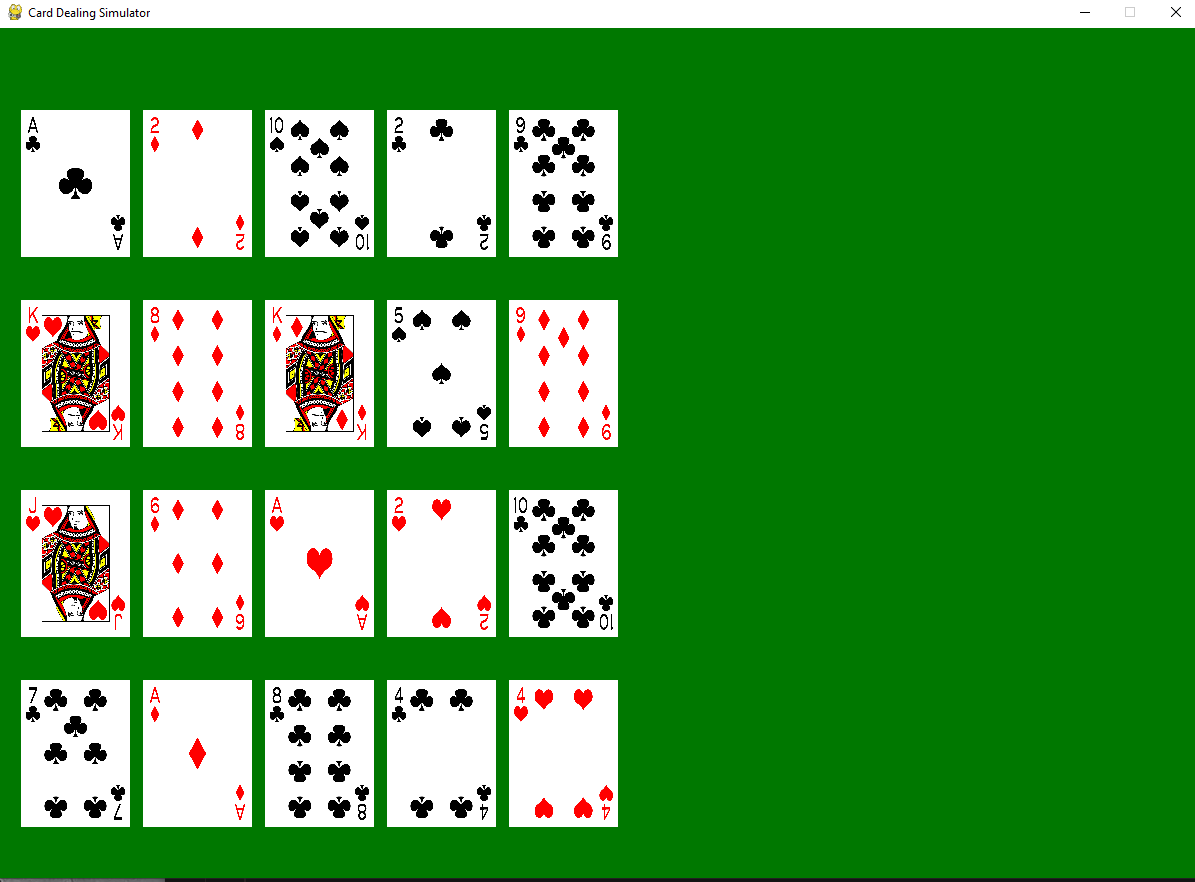
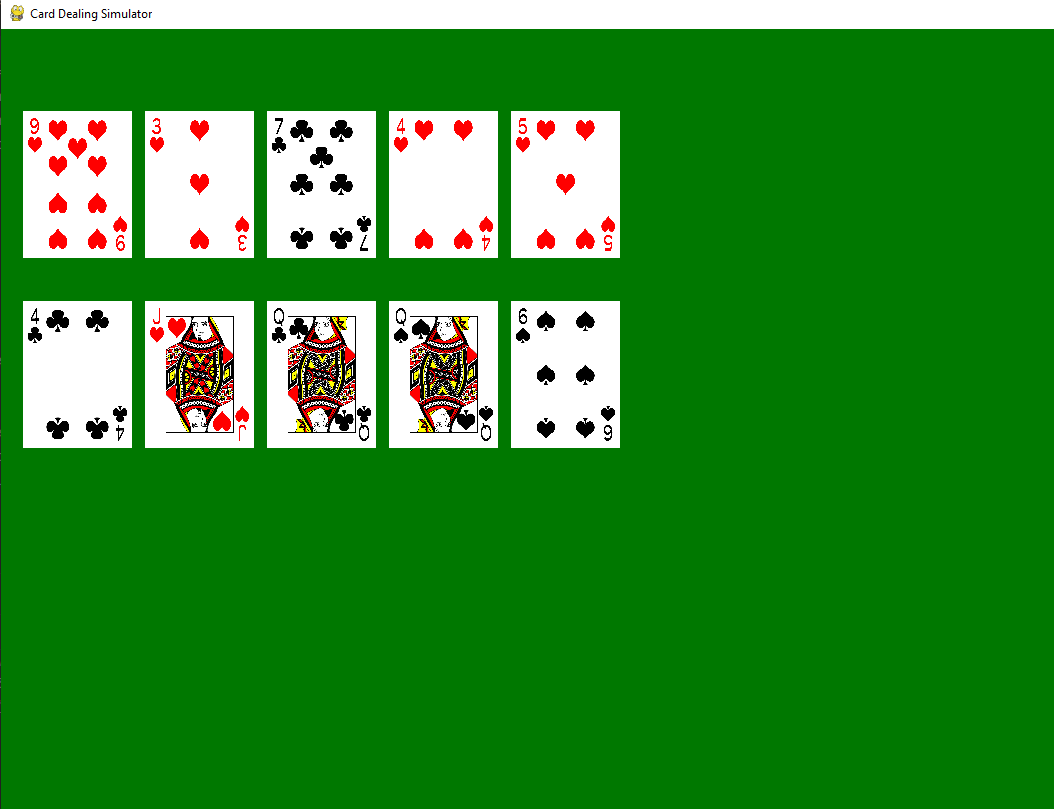
started implementing main menu, can click to go to game.

diff --git a/main.py b/main.py
@@ -22,7 +22,7 @@ for suit in suits:
 deck = [(suit, rank) for suit in suits for rank in ranks]
 random.shuffle(deck)
 
-num_players = 4
+num_players = 2
 cards_per_player = 5
 players = {}
 
@@ -37,21 +37,39 @@ screen = pygame.display.set_mode((screen_width, screen_height))
 pygame.display.set_caption("Card Dealing Simulator")
 
 #Button Creation
-startButton = Button((0,255,0), 400,150,200,80,"Start")
-howToButton = Button((0,0,255), 400,300,200,80,"How To Play")
-quitButton = Button((255,0,0), 400,450,200,80,"Quit")
+start_button = Button((0,255,0), 400,150,200,80,"Start")
+how_to_button = Button((0,0,255), 400,300,200,80,"How To Play")
+quit_button = Button((255,0,0), 400,450,200,80,"Quit")
+back_button = Button((200, 200, 200), 20, 20, 150, 60, "Back")
 
 running = True
 while running:
     for event in pygame.event.get():
+
+        # Check if user wants to quit
         if event.type == pygame.QUIT:
             running = False
 
+        #Logic for clicking menu buttons
+        # TODO: Add game, how_to
+        if event.type == pygame.MOUSEBUTTONDOWN:
+            pos = pygame.mouse.get_pos()
+
+            if current_state == 'menu':
+                if start_button.isOver(pos):
+                    current_state = 'game'
+                elif how_to_button.isOver(pos):
+                    pass
+
+
+
     screen.fill((0, 120, 0))
 
+    # Menu Menu
     if current_state == 'menu':
-        startButton.draw(screen)
+        start_button.draw(screen)
 
+    # Game Loop
     elif current_state == 'game':
         card_width, card_height = 112, 150
         space_between_cards = 10
